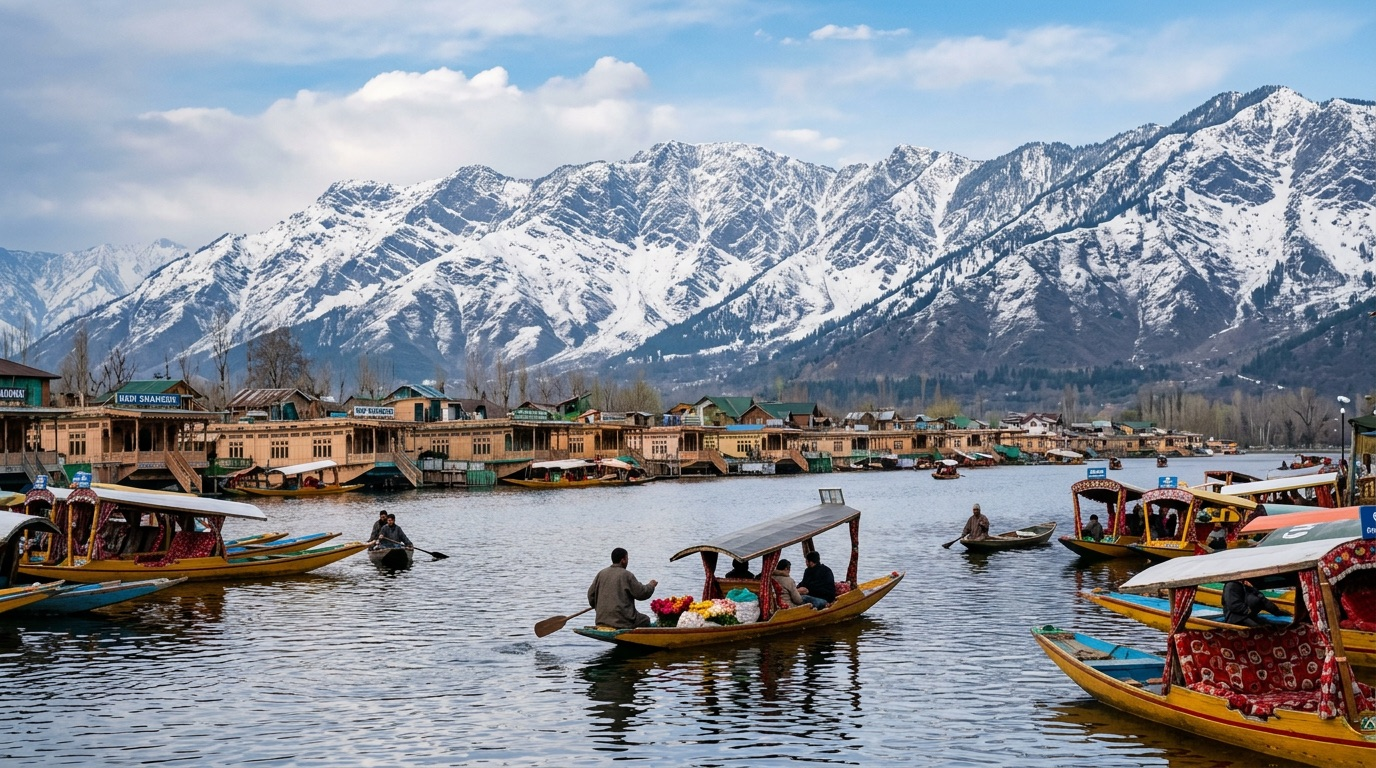
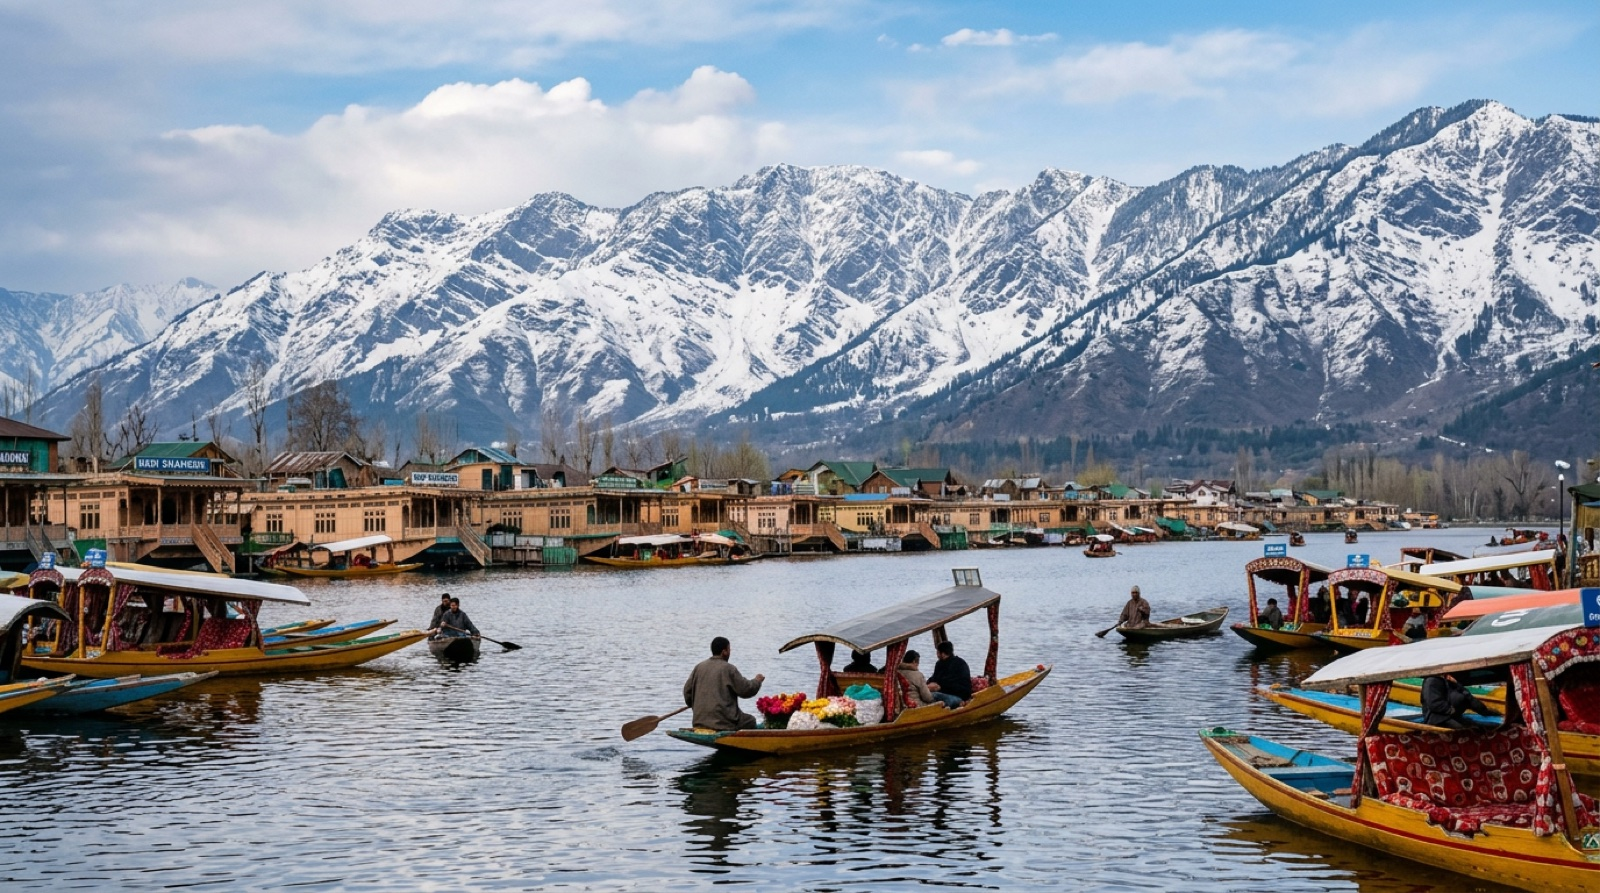
Wizard option photos, real Travel Mitr portrait, package Talk-to-Mitr popup
- AI wizard: dedicated photos for the three experience and three stay-type
  cards (images/plan/), drop rupee-sign tier prefixes
- Kashmir: real Dal Lake photo replaces the old kashmir.jpg everywhere
- Travel Mitr section: real team portrait (renamed file to bust the
  image cache)
- Package pages: Book Now removed; Talk to a Travel Mitr now opens a
  name+mobile popup (never prefilled) that files a tagged enquiry

diff --git a/components/features/packages/PackageDetail.tsx b/components/features/packages/PackageDetail.tsx
@@ -1,10 +1,206 @@
 "use client";
 
-import { useState } from "react";
+import { useEffect, useState } from "react";
 import Image from "next/image";
 import Link from "next/link";
 import { Calendar, Check, Clock, MapPin, Phone, X } from "lucide-react";
+import { guessTripScope } from "@/components/features/home/LeadForm";
+import { ApiError } from "@/lib/api/client";
+import { createEnquiry } from "@/lib/api/endpoints";
 import type { PackageContent } from "@/lib/content/packages";
+
+/** "Talk to a Travel Mitr" popup for a curated package — the lead-gate
+ *  modal's warm card, trimmed to just Name + Mobile (never prefilled).
+ *  Submits a website enquiry tagged with the package so ops knows which
+ *  trip to call about. */
+function TalkToMitrModal({
+  pkg,
+  onClose,
+}: {
+  pkg: PackageContent;
+  onClose: () => void;
+}) {
+  const [name, setName] = useState("");
+  const [mobile, setMobile] = useState("");
+  const [errors, setErrors] = useState<{
+    name?: string;
+    mobile?: string;
+    submit?: string;
+  }>({});
+  const [state, setState] = useState<"idle" | "submitting" | "success">(
+    "idle",
+  );
+
+  useEffect(() => {
+    const prev = document.body.style.overflow;
+    document.body.style.overflow = "hidden";
+    const onKey = (e: KeyboardEvent) => e.key === "Escape" && onClose();
+    window.addEventListener("keydown", onKey);
+    return () => {
+      document.body.style.overflow = prev;
+      window.removeEventListener("keydown", onKey);
+    };
+  }, [onClose]);
+
+  async function handleSubmit(event: React.FormEvent) {
+    event.preventDefault();
+    const next: typeof errors = {};
+    if (name.trim().length < 3) next.name = "Please enter your name.";
+    if (!/^[6-9]\d{9}$/.test(mobile))
+      next.mobile = "Enter a valid 10-digit mobile number.";
+    setErrors(next);
+    if (Object.keys(next).length > 0) return;
+
+    setState("submitting");
+    try {
+      await createEnquiry({
+        full_name: name.trim(),
+        phone: mobile,
+        destination: pkg.name,
+        trip_scope: guessTripScope(pkg.name),
+        message: `Package enquiry: ${pkg.title} (${pkg.datesLabel})`,
+        source: "website",
+        form: "package-talk-to-mitr",
+      });
+      setState("success");
+    } catch (error) {
+      setState("idle");
+      setErrors({
+        submit:
+          error instanceof ApiError
+            ? "Please check your details and try again."
+            : "Something went wrong. Please try again.",
+      });
+    }
+  }
+
+  const inputClasses =
+    "mt-1.5 w-full rounded-xl bg-[#f1f1f1] px-4 py-3.5 text-sm text-foreground placeholder:text-foreground/40 outline-none focus:ring-2 focus:ring-brand/30";
+
+  return (
+    <div
+      className="fixed inset-0 z-50 flex items-center justify-center bg-black/50 p-4"
+      role="dialog"
+      aria-modal="true"
+      aria-label="Talk to a Travel Mitr"
+    >
+      <div className="relative w-full max-w-md rounded-2xl bg-[linear-gradient(to_bottom,#fcf3d5_0%,#ffffff_25%,#ffffff_70%,#f9d9e9_100%)] p-7 shadow-2xl">
+        <button
+          type="button"
+          onClick={onClose}
+          aria-label="Close"
+          className="text-foreground/60 absolute top-4 right-4 flex size-7 items-center justify-center rounded-full bg-black/5 transition hover:bg-black/10"
+        >
+          <X className="h-4 w-4" />
+        </button>
+
+        {state === "success" ? (
+          <div className="py-6 text-center">
+            <p className="font-display text-brand text-2xl font-bold">
+              Thank you, {name.trim().split(" ")[0]}!
+            </p>
+            <p className="text-foreground/70 mt-3 text-sm">
+              Your Travel Mitr will call you shortly about the {pkg.name}{" "}
+              tour.
+            </p>
+            <button
+              type="button"
+              onClick={onClose}
+              className="mt-6 rounded-full bg-black px-8 py-3 text-sm font-semibold text-white transition hover:bg-black/85"
+            >
+              Close
+            </button>
+          </div>
+        ) : (
+          <form onSubmit={handleSubmit} noValidate>
+            <h2 className="font-display text-brand pr-8 text-2xl font-bold">
+              Talk to a Travel Mitr
+            </h2>
+            <p className="text-foreground/60 mt-1.5 text-sm">
+              Share your details and we&apos;ll call you about the {pkg.name}{" "}
+              tour.
+            </p>
+
+            <div className="mt-5 space-y-4">
+              <label className="block">
+                <span className="text-[13px] font-semibold">Full Name</span>
+                <input
+                  value={name}
+                  onChange={(e) => {
+                    setName(e.target.value.replace(/[^a-zA-Z\s.'-]/g, ""));
+                    setErrors((prev) => ({ ...prev, name: undefined }));
+                  }}
+                  aria-invalid={Boolean(errors.name)}
+                  placeholder="e.g. Asha Rao"
+                  className={inputClasses}
+                />
+                {errors.name ? (
+                  <p
+                    role="alert"
+                    className="mt-1 text-xs font-medium text-red-600"
+                  >
+                    {errors.name}
+                  </p>
+                ) : null}
+              </label>
+
+              <label className="block">
+                <span className="text-[13px] font-semibold">
+                  Mobile Number
+                </span>
+                <div className="flex gap-3">
+                  <span className="text-foreground/60 mt-1.5 flex items-center rounded-xl bg-[#f1f1f1] px-4 text-sm">
+                    +91
+                  </span>
+                  <input
+                    inputMode="numeric"
+                    value={mobile}
+                    onChange={(e) => {
+                      setMobile(e.target.value.replace(/\D/g, ""));
+                      setErrors((prev) => ({ ...prev, mobile: undefined }));
+                    }}
+                    maxLength={10}
+                    aria-invalid={Boolean(errors.mobile)}
+                    placeholder="10-digit mobile number"
+                    className={inputClasses}
+                  />
+                </div>
+                {errors.mobile ? (
+                  <p
+                    role="alert"
+                    className="mt-1 text-xs font-medium text-red-600"
+                  >
+                    {errors.mobile}
+                  </p>
+                ) : null}
+              </label>
+
+              {errors.submit ? (
+                <p role="alert" className="text-sm text-red-600">
+                  {errors.submit}
+                </p>
+              ) : null}
+
+              <button
+                type="submit"
+                disabled={state === "submitting"}
+                className="flex w-full items-center justify-center gap-2 rounded-full bg-black py-3.5 text-sm font-semibold text-white transition hover:bg-black/85 disabled:opacity-60"
+              >
+                <Phone className="h-4 w-4" />
+                {state === "submitting" ? "Sending…" : "Request a call back"}
+              </button>
+
+              <p className="flex items-center justify-center gap-1.5 text-center text-xs font-medium text-green-700">
+                <Check className="h-3.5 w-3.5" strokeWidth={3} />
+                No spam. Your details stay private.
+              </p>
+            </div>
+          </form>
+        )}
+      </div>
+    </div>
+  );
+}
 
 /** Circular Gen EV Score ring (green). */
 function ScoreRing({ score }: { score: number }) {
@@ -44,10 +240,14 @@ function ScoreRing({ score }: { score: number }) {
  *  Tour price includes/excludes). */
 export function PackageDetail({ pkg }: { pkg: PackageContent }) {
   const [activeDay, setActiveDay] = useState(pkg.days[0]?.day ?? 1);
+  const [mitrOpen, setMitrOpen] = useState(false);
   const day = pkg.days.find((d) => d.day === activeDay) ?? pkg.days[0];
 
   return (
     <main className="bg-[#fdf7f2] pt-20 md:pt-24">
+      {mitrOpen ? (
+        <TalkToMitrModal pkg={pkg} onClose={() => setMitrOpen(false)} />
+      ) : null}
       <div className="mx-auto max-w-[1192px] px-4 py-8">
         <Link
           href="/#destinations"
@@ -263,19 +463,14 @@ export function PackageDetail({ pkg }: { pkg: PackageContent }) {
               <p className="font-display mt-1 text-4xl font-bold">
                 ₹{pkg.priceFromInr.toLocaleString("en-IN")}
               </p>
-              <Link
-                href="/#plan-your-trip"
-                className="mt-5 flex items-center justify-center gap-2 rounded-full border border-black/20 bg-white py-3 text-sm font-semibold transition hover:border-black/40"
+              <button
+                type="button"
+                onClick={() => setMitrOpen(true)}
+                className="bg-brand hover:bg-brand-deep mt-5 flex w-full items-center justify-center gap-2 rounded-full py-3 text-sm font-semibold text-white transition"
               >
                 <Phone className="h-4 w-4" />
                 Talk to a Travel Mitr
-              </Link>
-              <Link
-                href="/#plan-your-trip"
-                className="bg-brand hover:bg-brand-deep mt-3 flex w-full items-center justify-center gap-2 rounded-full py-3 text-sm font-semibold text-white transition"
-              >
-                Book Now
-              </Link>
+              </button>
             </div>
           </div>
         </div>

diff --git a/components/features/plan/AiTripWizard.tsx b/components/features/plan/AiTripWizard.tsx
@@ -78,34 +78,35 @@ const DAY_PACES = [
 const WALK_STRETCHES = ["Under 15 mins", "15-30 mins", "Over 30 mins"];
 
 const EXPERIENCES = [
-  { name: "Religious & Spiritual", image: "/images/home/review-trip-1.jpg" },
-  { name: "Nature & Wellness", image: "/images/destinations/kerala.jpg" },
+  {
+    name: "Religious & Spiritual",
+    image: "/images/plan/experience-religious.jpg",
+  },
+  { name: "Nature & Wellness", image: "/images/plan/experience-nature.jpg" },
   {
     name: "Exploration & Sightseeing",
-    image: "/images/destinations/rajasthan.jpg",
+    image: "/images/plan/experience-sightseeing.jpg",
   },
 ];
 
-/* TODO(assets): hotel-room photos per the design need a Figma export —
-   scenery stand-ins until then. */
 const STAY_TYPES = [
   {
     name: "Homestay",
-    tier: "₹ Budget",
+    tier: "Budget",
     blurb: "Authentic local stays with cozy, personal comfort.",
-    image: "/images/destinations/vietnam.jpg",
+    image: "/images/plan/stay-homestay.jpg",
   },
   {
     name: "Comfortable 3-Star",
-    tier: "₹₹ Mid-Range",
+    tier: "Mid-Range",
     blurb: "Reliable stays with comfort and essential amenities.",
-    image: "/images/destinations/europe.jpg",
+    image: "/images/plan/stay-3-star.jpg",
   },
   {
     name: "Luxury 5-Star",
-    tier: "₹₹₹ Luxury",
+    tier: "Luxury",
     blurb: "Premium stays with luxury and exceptional service.",
-    image: "/images/destinations/japan.jpg",
+    image: "/images/plan/stay-5-star.jpg",
   },
 ];
 

diff --git a/components/features/home/TravelMitr.tsx b/components/features/home/TravelMitr.tsx
@@ -23,7 +23,7 @@ export function TravelMitr() {
         <div className="mt-10 flex flex-col items-center">
           <div className="relative size-[140px] overflow-hidden rounded-full ring-2 ring-white/30 md:size-[180px]">
             <Image
-              src="/images/home/travel-mitr.jpg"
+              src="/images/home/travel-mitr-portrait.jpg"
               alt="Your dedicated Travel Mitr"
               fill
               sizes="180px"

diff --git a/components/features/home/LeadForm.tsx b/components/features/home/LeadForm.tsx
@@ -38,7 +38,9 @@ const DOMESTIC_HINTS = [
   "rishikesh",
 ];
 
-function guessTripScope(destination: string): "domestic" | "international" {
+export function guessTripScope(
+  destination: string,
+): "domestic" | "international" {
   const lower = destination.toLowerCase();
   return DOMESTIC_HINTS.some((hint) => lower.includes(hint))
     ? "domestic"
